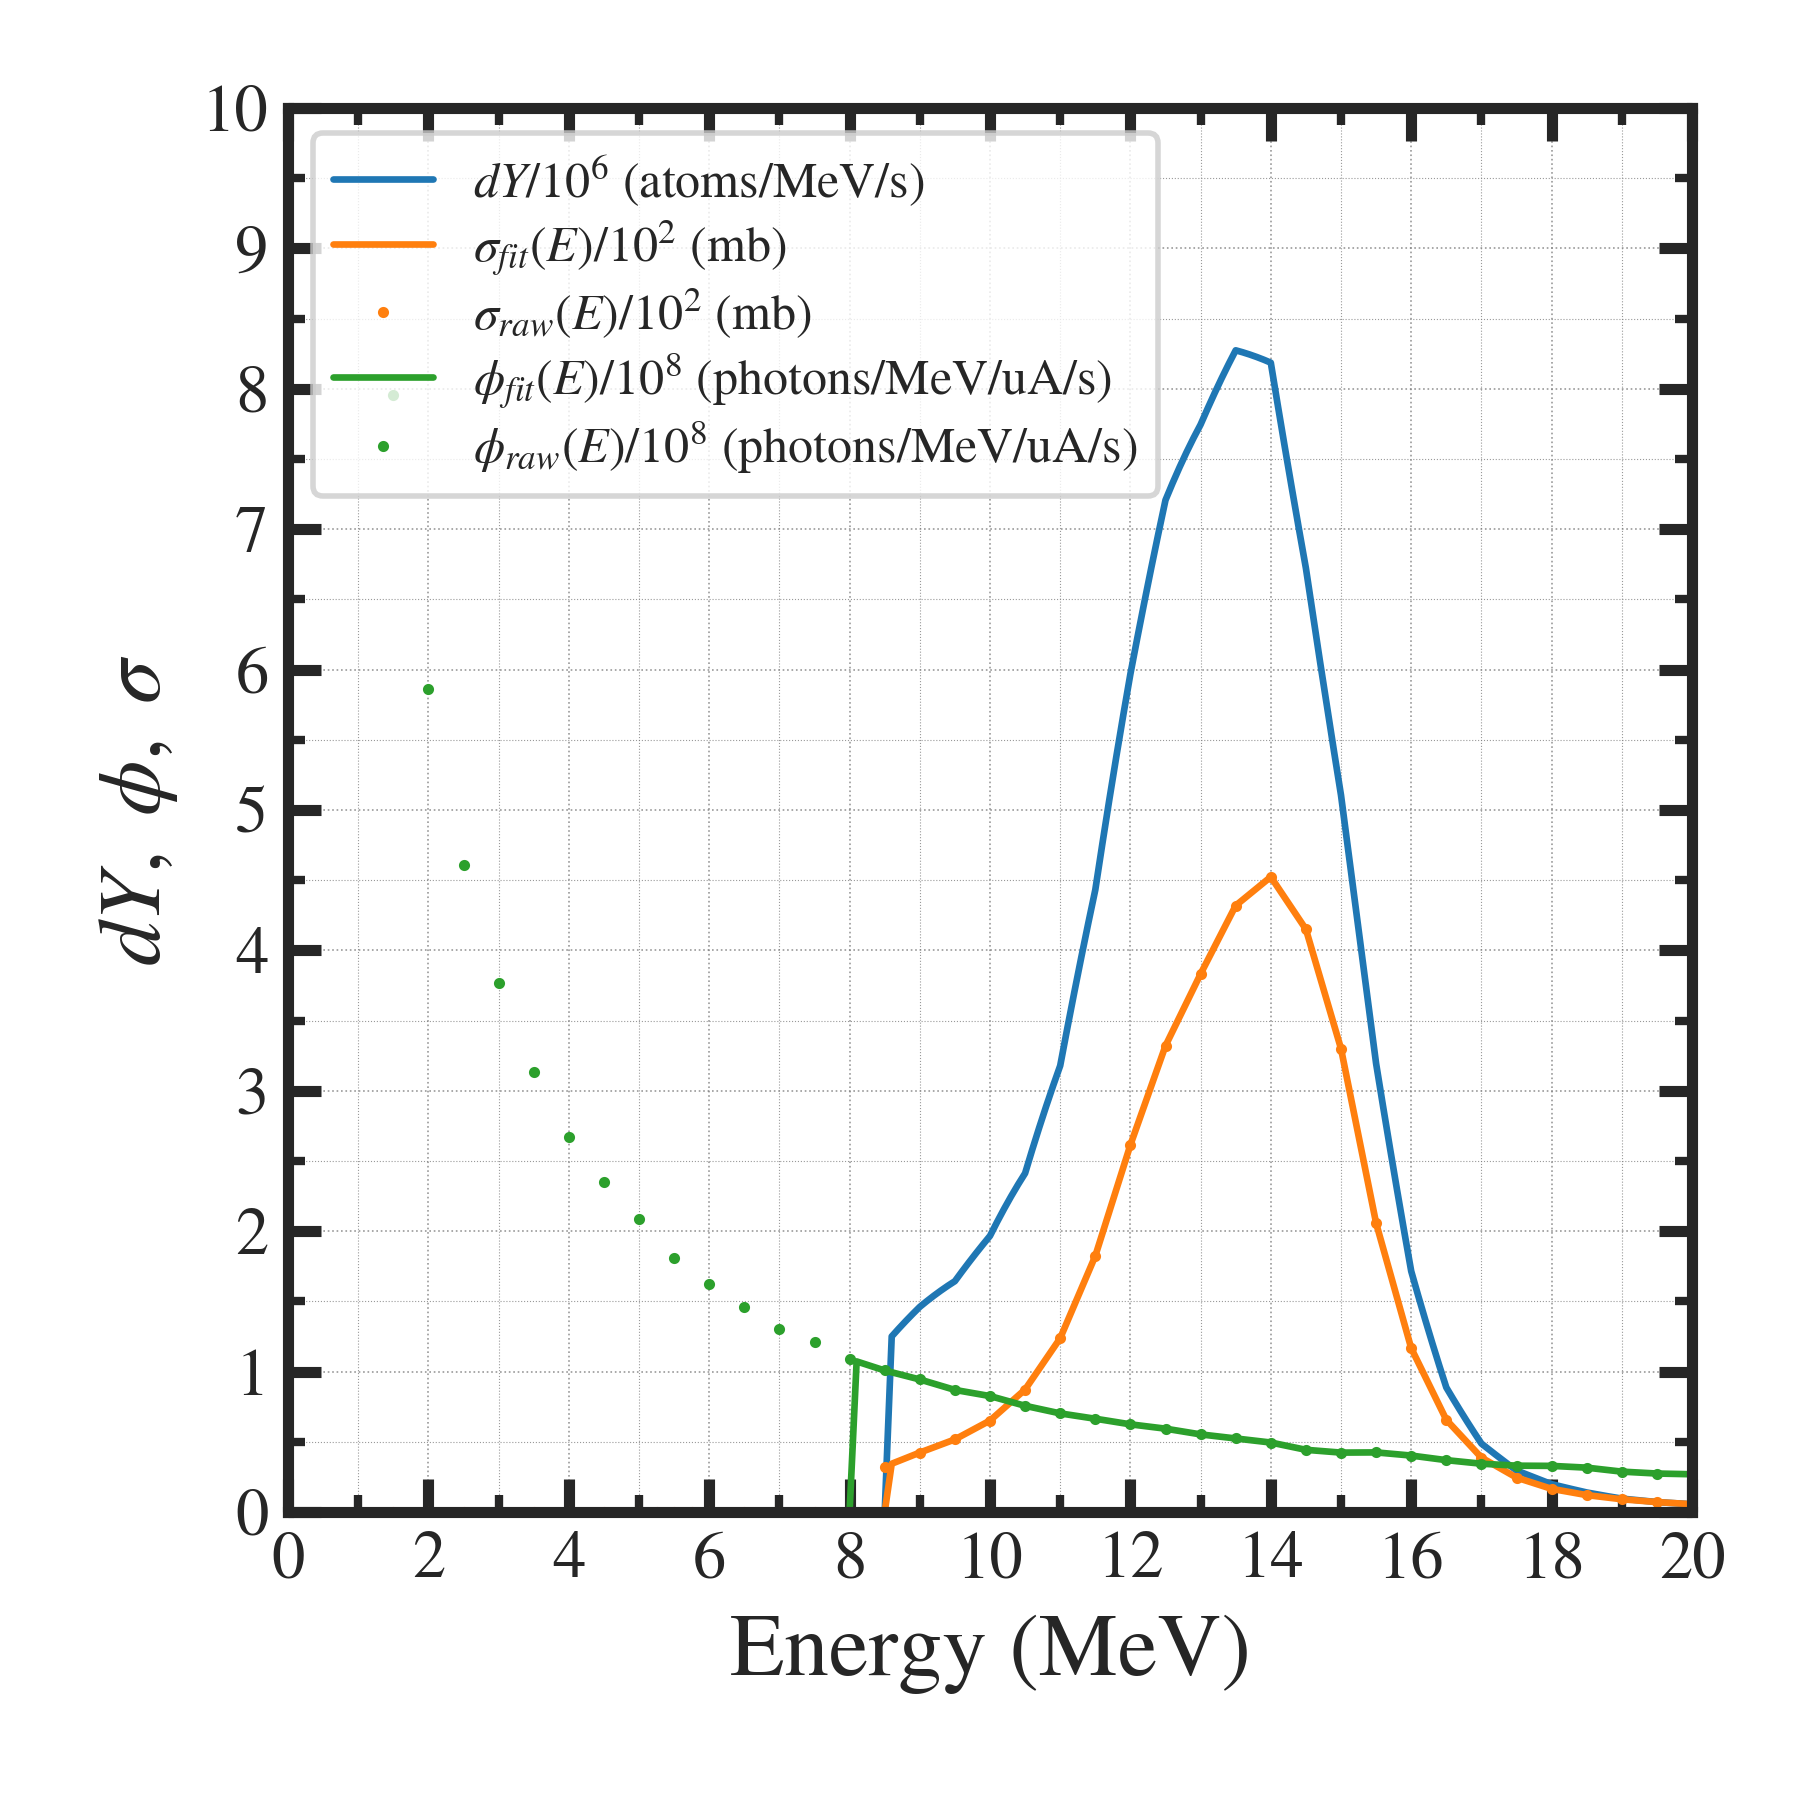
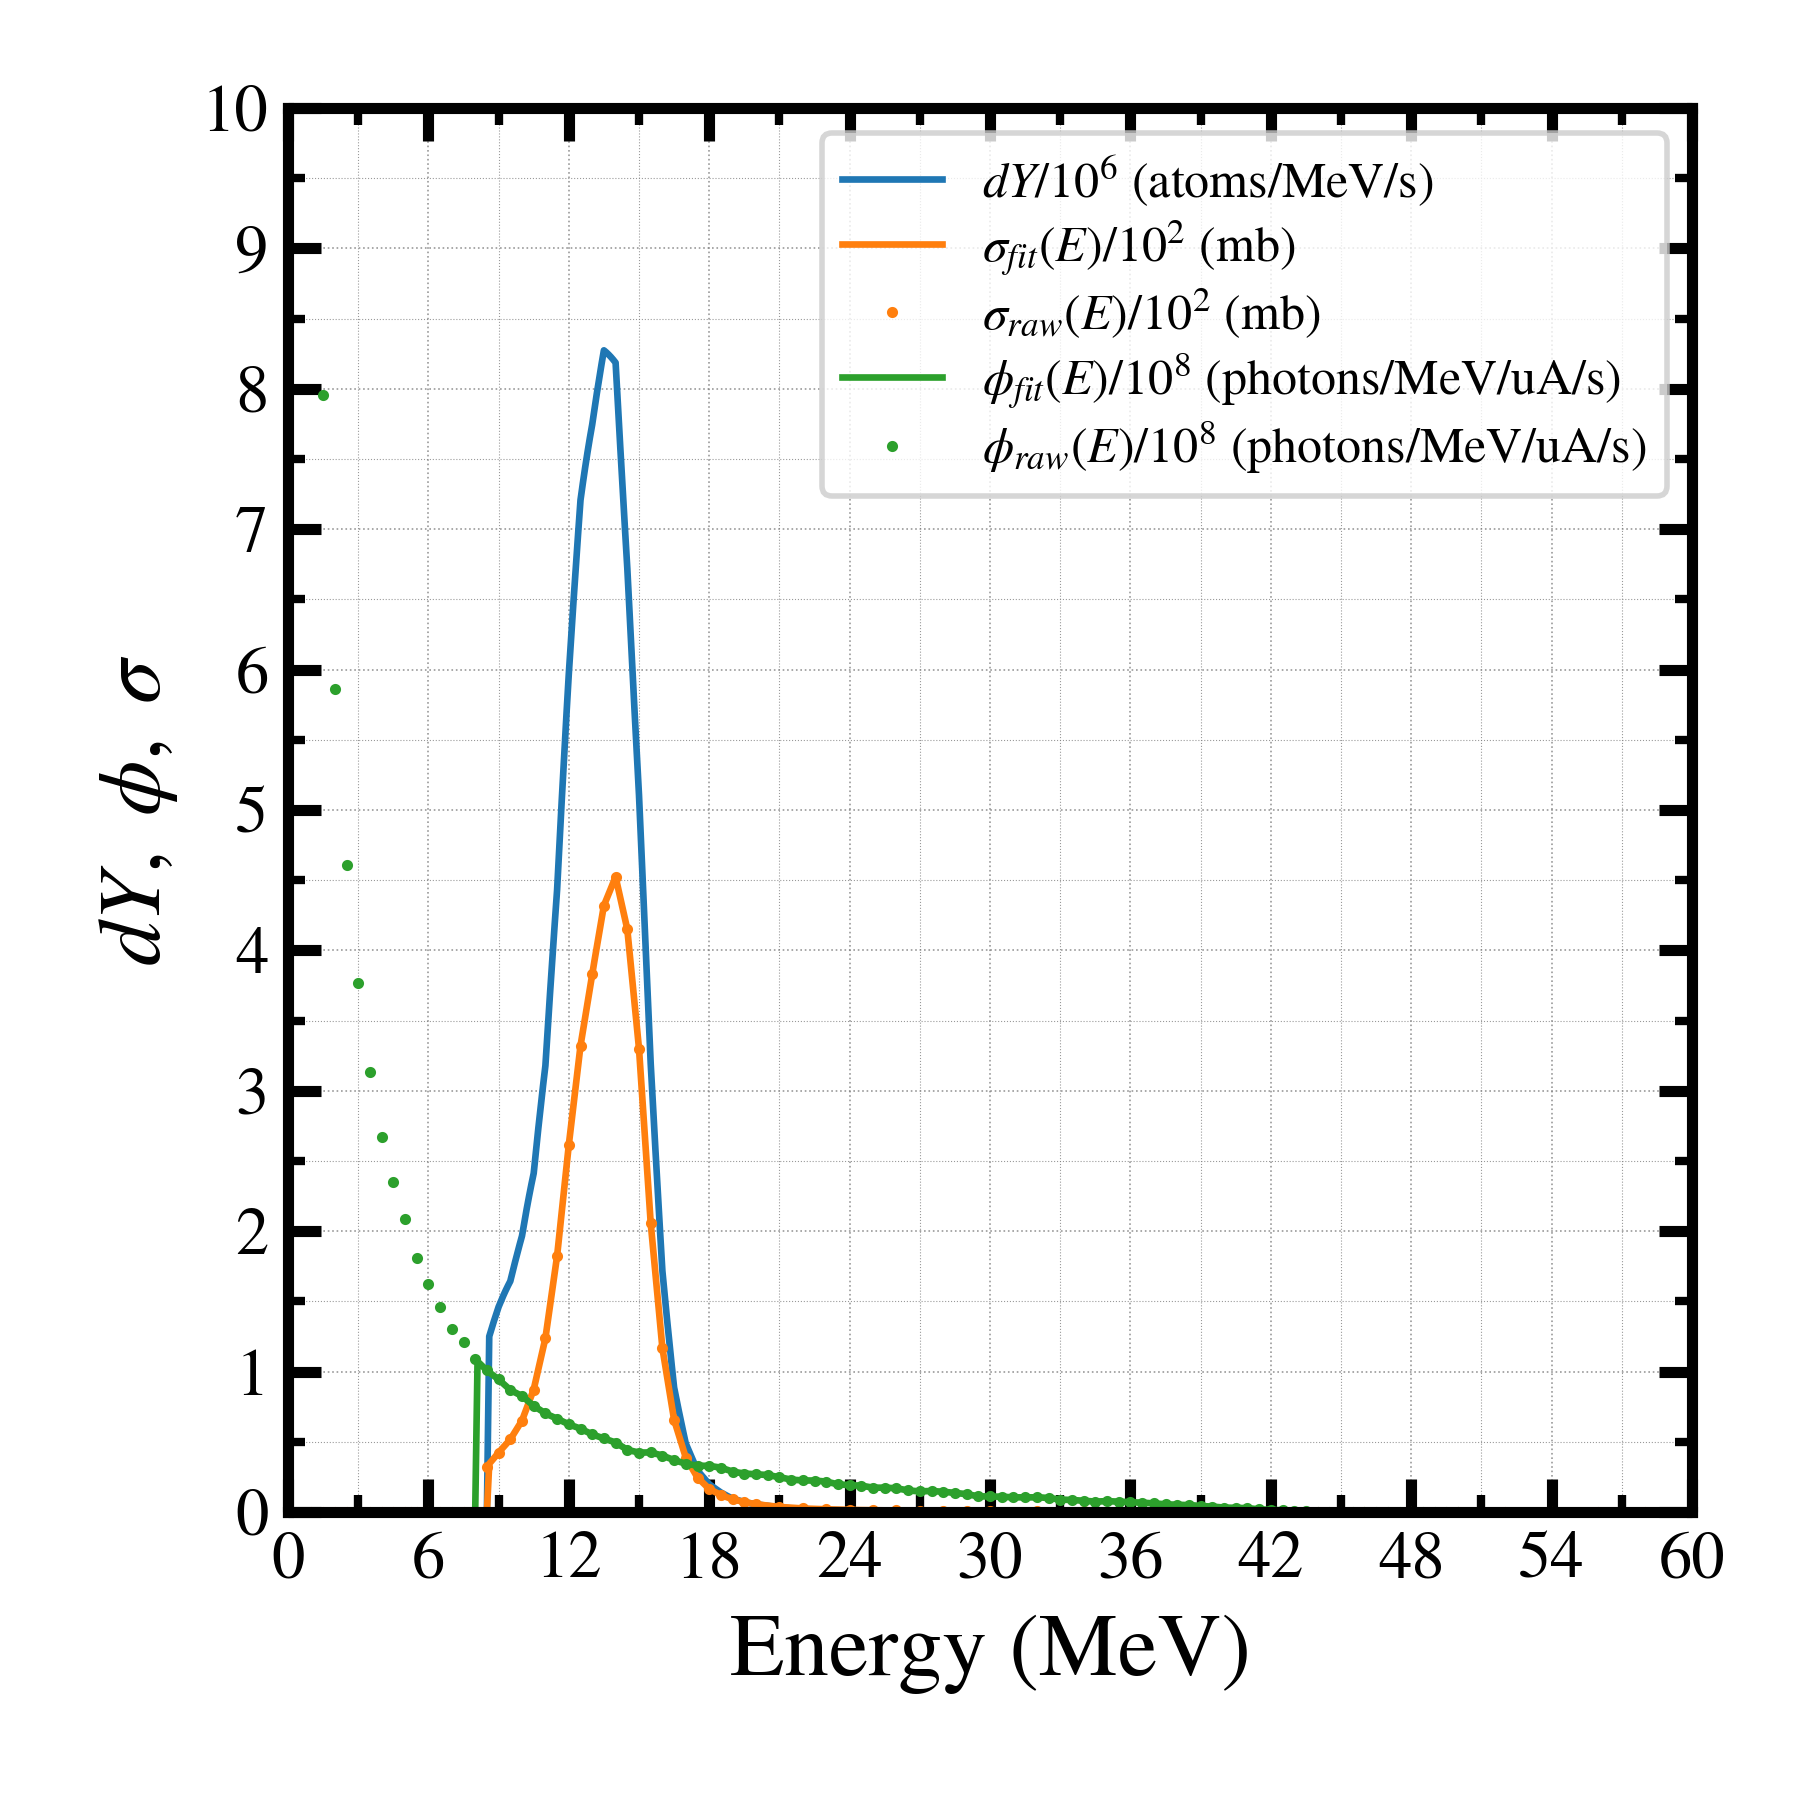
update

diff --git a/estimate__RIproduction.py b/estimate__RIproduction.py
@@ -3,9 +3,8 @@ import numpy                      as np
 import scipy.interpolate          as itp
 import scipy.integrate            as itg
 import scipy.optimize             as opt
-import nkUtilities.plot1D         as pl1
 import nkUtilities.load__config   as lcf
-import nkUtilities.configSettings as cfs
+import nkUtilities.gplot1D        as gp1
 
 
 # ========================================================= #
@@ -333,27 +332,21 @@ def draw__figures( params=None, EAxis=None, pf_fit=None, xs_fit=None, \
     # ------------------------------------------------- #
     # --- [2] configure plot                        --- #
     # ------------------------------------------------- #
-    config                   = lcf.load__config()
-    config                   = cfs.configSettings( configType="plot.def", config=config )
-    config["FigSize"]        = (4.5,4.5)
-    config["plt_position"]   = [ 0.16, 0.16, 0.94, 0.94 ]
-    config["plt_xAutoRange"] = False
-    config["plt_yAutoRange"] = False
-    config["plt_xRange"]     = [ params["plot.xRange"][min_], params["plot.xRange"][max_] ]
-    config["plt_yRange"]     = [ params["plot.yRange"][min_], params["plot.yRange"][max_] ]
-    config["xMajor_Nticks"]  = int( params["plot.xRange"][num_] )
-    config["yMajor_Nticks"]  = int( params["plot.yRange"][num_] )
-    config["plt_marker"]     = "o"
-    config["plt_markersize"] = 1.0
-    config["plt_linestyle"]  = "-"
-    config["plt_linewidth"]  = 1.2
-    config["xTitle"]         = "Energy (MeV)"
-    config["yTitle"]         = "$dY, \ \phi, \ \sigma$"
 
-    # ------------------------------------------------- #
-    # --- [3] plot                                  --- #
-    # ------------------------------------------------- #
-    fig     = pl1.plot1D( config=config, pngFile=params["plot.filename"] )
+    config   = lcf.load__config()
+    config_  = {
+        "figure.size"        : [4.5,4.5],
+        "figure.position"    : [ 0.16, 0.16, 0.94, 0.94 ],
+        "ax1.x.label"        : "Energy (MeV)", 
+        "ax1.y.label"        : "$dY, \ \phi, \ \sigma$", 
+        "plot.marker"        : "o",
+        "plot.markersize"    : 1.0,
+        "plot.linestyle"     : "-", 
+        "legend.fontsize"    : 9.0, 
+    }
+    config = { **config, **config_ }
+    config = { **config, **params["plot.config"] }
+    fig    = gp1.gplot1D( config=config )
     fig.add__plot( xAxis=EAxis       , yAxis=dY_plot    , label=label_dY    , \
                    color="C0", marker="none"    )
     fig.add__plot( xAxis=EAxis       , yAxis=xs_fit_plot, label=label_xs_fit, \
@@ -364,8 +357,8 @@ def draw__figures( params=None, EAxis=None, pf_fit=None, xs_fit=None, \
                    color="C2", marker="none"    )
     fig.add__plot( xAxis=pf_raw[:,e_], yAxis=pf_raw_plot, label=label_pf_raw, \
                    color="C2", linestyle="none" )
-    fig.add__legend( FontSize=9.0 )
     fig.set__axis()
+    fig.set__legend()
     fig.save__figure()
     return()
 
